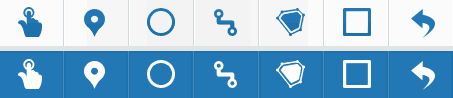
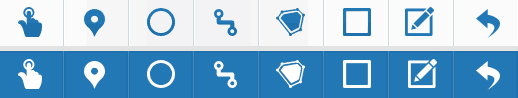
修改区域

diff --git a/buzmgt/src/main/webapp/static/js/region/drawingManager_min.js b/buzmgt/src/main/webapp/static/js/region/drawingManager_min.js
@@ -4,7 +4,9 @@ BMAP_DRAWING_POLYLINE = "polyline",
 BMAP_DRAWING_CIRCLE = "circle",
 BMAP_DRAWING_RECTANGLE = "rectangle",
 BMAP_DRAWING_POLYGON = "polygon"; 
-BMAP_DRAWING_RETURN = "return";(function() {
+BMAP_DRAWING_RETURN = "return";
+BMAP_DRAWING_EDIT = "edit";
+(function() {
 	var b = b || {
 		guid: "$BAIDU$"
 	}; (function() {
@@ -345,7 +347,7 @@ BMAP_DRAWING_RETURN = "return";(function() {
 				this._bindRectangle();
 				break;
 			case BMAP_DRAWING_RETURN:
-				this._bindReturn();
+				//this._bindReturn();
 				break
 			}
 		}
@@ -360,6 +362,7 @@ BMAP_DRAWING_RETURN = "return";(function() {
 		}
 		if (this._drawingTool) {
 			this._drawingTool.setStyleByDrawingMode("hander")
+			this._drawingTool.setStyleByDrawingMode("edit")
 		}
 	};
 	d.prototype._bindMarker = function() {
@@ -584,7 +587,7 @@ BMAP_DRAWING_RETURN = "return";(function() {
 		this._map = i;
 		var j = this.container = document.createElement("div");
 		var g = this._map.getSize();
-		j.style.cssText = "position:absolute;background:url(about:blank);cursor:crosshair;width:" + g.width + "px;height:" + g.height + "px";
+		j.style.cssText = "position:absolute;background:url(about:blank);cursor:;width:" + g.width + "px;height:" + g.height + "px";
 		this._map.addEventListener("resize",
 		function(k) {
 			h._adjustSize(k.size)
@@ -774,12 +777,14 @@ BMAP_DRAWING_RETURN = "return";(function() {
 		h[BMAP_DRAWING_POLYLINE] = "画折线";
 		h[BMAP_DRAWING_POLYGON] = "画多边形";
 		h[BMAP_DRAWING_RECTANGLE] = "画矩形";
+		h["edit"] = "编辑";
 		h["return"] = "返回";
 		var n = function(o, i) {
 			return '<a class="' + o + '" drawingType="' + i + '" href="javascript:void(0)" title="' + h[i] + '" onfocus="this.blur()"></a>'
 		};
 		var k = [];
 		k.push(n("BMapLib_box BMapLib_hander", "hander"));
+		k.push(n("BMapLib_box BMapLib_edit", "edit"));
 		for (var j = 0,
 		g = this.drawingModes.length; j < g; j++) {
 			var l = "BMapLib_box BMapLib_" + this.drawingModes[j];
@@ -829,7 +834,7 @@ BMAP_DRAWING_RETURN = "return";(function() {
 	a.prototype._bindEventByDraingMode = function(g) {
 		var i = this;
 		var h = this.drawingManager;
-		if (g == "hander") {
+		if (g == "hander" || g == "edit") {
 			h.close();
 			h._map.enableDoubleClickZoom()
 		} else {

diff --git a/buzmgt/src/main/webapp/static/css/region/drawingManager_min.css b/buzmgt/src/main/webapp/static/css/region/drawingManager_min.css
@@ -43,11 +43,20 @@
 	background-position:-195px -52px
 }
 .BMapLib_Drawing .BMapLib_return {
-	background-position:-395px 0
+	background-position:-455px 0
 }
 .BMapLib_Drawing .BMapLib_return_hover {
-	background-position:-395px -52px
+	background-position:-455px -52px
 }
+
+.BMapLib_Drawing .BMapLib_edit {
+	background-position:-390px 0
+}
+.BMapLib_Drawing .BMapLib_edit_hover {
+	background-position:-390px -52px
+}
+
+
 
 .BMapLib_Drawing .BMapLib_polygon {
 	background-position:-260px 0

diff --git a/buzmgt/src/main/java/com/wangge/buzmgt/region/web/RegionController.java b/buzmgt/src/main/java/com/wangge/buzmgt/region/web/RegionController.java
@@ -265,6 +265,30 @@ public class RegionController {
 	
 	
 	
+	
+	@RequestMapping(value = "/updateYewuData", method = RequestMethod.POST)
+  @ResponseBody
+  public boolean updateYewuData(String  points,String parentid,String name,String centerPoint) {
+    JSONArray jsonArr = JSONArray .fromObject(points);
+    StringBuffer pointbuf=new StringBuffer();
+    for(int i=0;i<jsonArr.size();i++){
+      JSONObject jsonObject = JSONObject .fromObject(jsonArr.get(i));
+      pointbuf.append(jsonObject.get("lng")).append("-").append(jsonObject.get("lat")).append("=");
+    }
+    Region region=regionService.findListRegionbyid(parentid);
+//    Long maxid=getMaxId(parentid);
+//    Region entity=new Region(String.valueOf(maxid+1),name,RegionUtil.getTYpe(region));
+//    entity.setCoordinates(pointbuf.toString());
+//    entity.setParent(regionService.findListRegionbyid(parentid));
+//    entity.setCenterPoint(centerPoint);
+    region.setCoordinates(pointbuf.toString());
+    region.setCenterPoint(centerPoint);
+    
+    regionService.saveRegion(region);
+    return true;
+    
+  }
+	
 	/**
 	 * 
 	* @Title: getMaxId 
